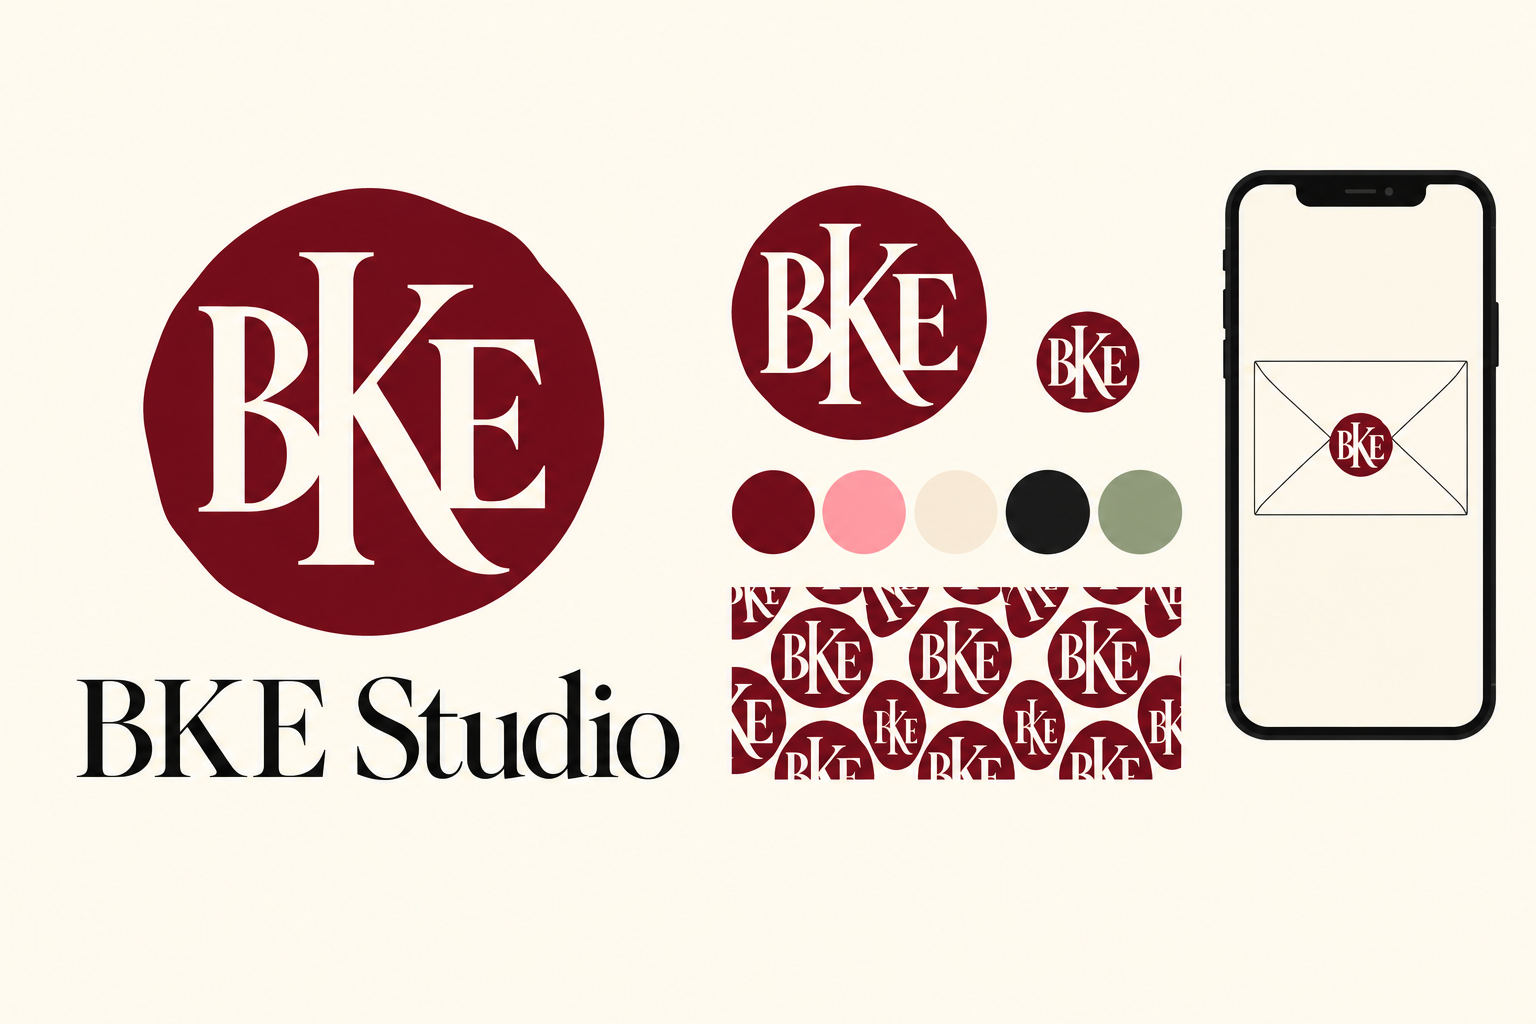
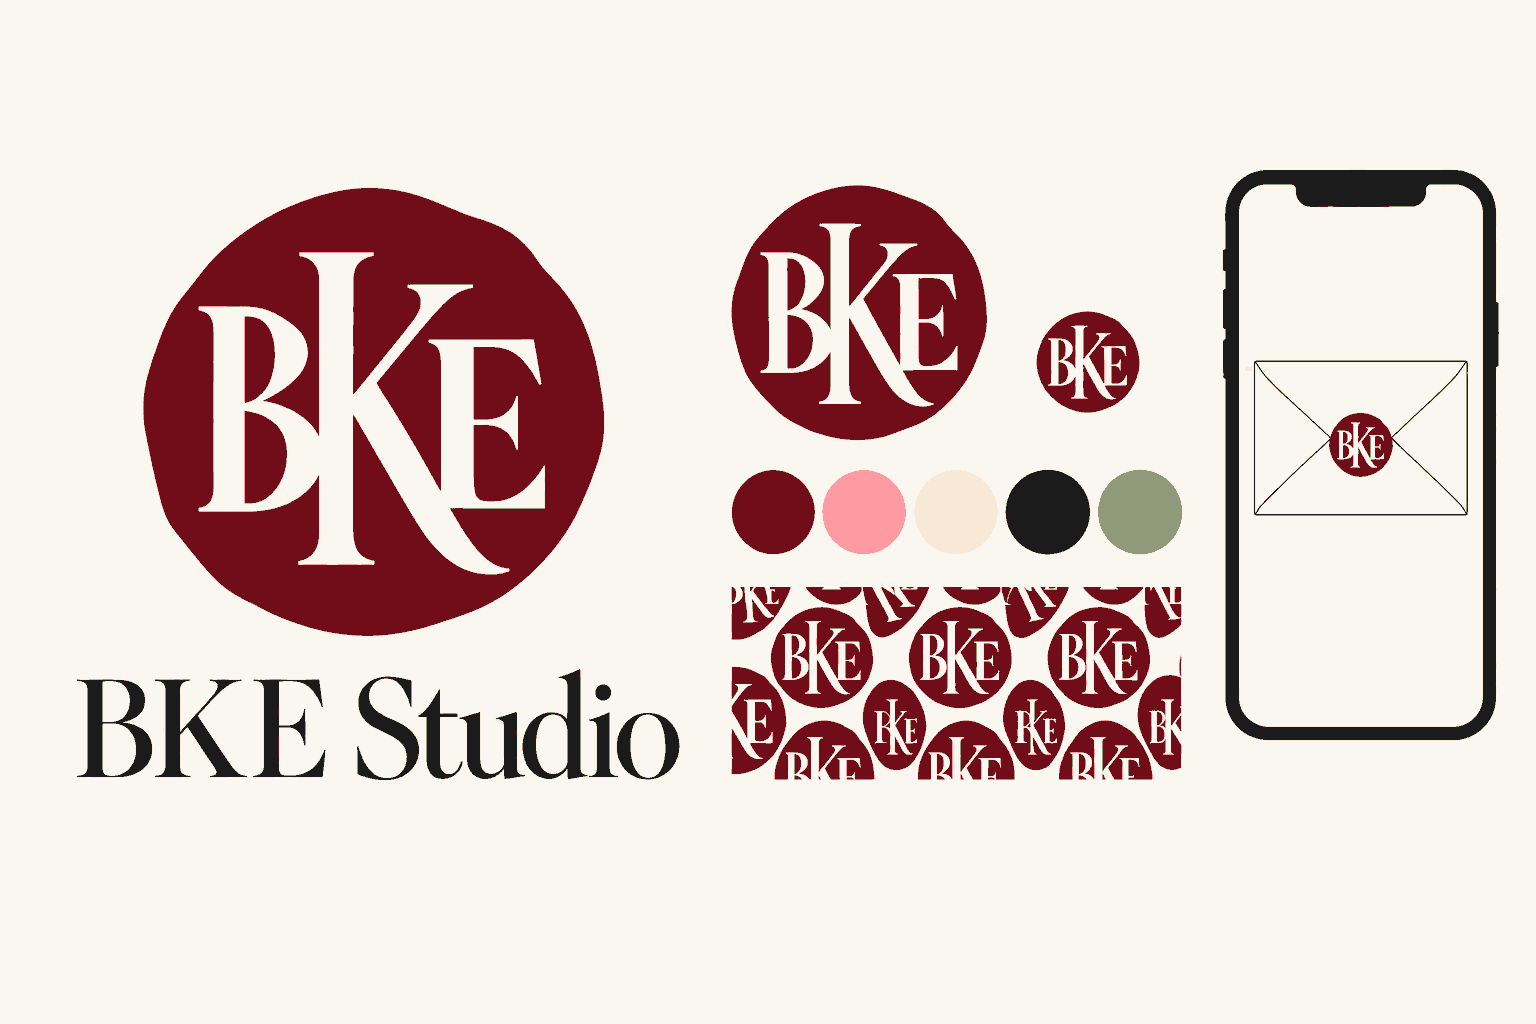
GM01: C The Reveal marka görselleri, inceleme

diff --git a/gorevler/GM01-marka-gorsel.md b/gorevler/GM01-marka-gorsel.md
@@ -2,7 +2,7 @@
 id: GM01
 baslik: BKE Studio marka kimliği — 3 yön panosu + seçilen yönün logo/sembol/mühür/desen/ikon/sahne dosyaları
 rol: gpt-gorsel
-durum: alindi
+durum: inceleme
 alan: gpt-marka
 oncelik: 1
 bagimli: []
@@ -27,13 +27,23 @@ marka kimliği istedi. Tasarımı GPT yapar (K21). Claude sonra vektöre çeviri
 6. Kontrol: her görselin Kontrol satırı. Logo dosyalarında gerçek alfa ve düz renk; `pattern_tile` 2×2 dikişsiz.
 
 ## Bitti sayılması için
-- [ ] 3 pano `brand/assets/gpt/boards/` içinde
-- [ ] 10 B2 dosyası `brand/assets/gpt/final/` içinde, Kaydet satırındaki adlarla
-- [ ] Bütün yazılar harf harf "BKE Studio"; şeffaf istenenler gerçek alfa
-- [ ] Sonuç'ta seçilen yön + gerekçe, yeniden üretilenler, emin olunmayan noktalar
+- [x] 3 pano `brand/assets/gpt/boards/` içinde
+- [x] 10 B2 dosyası `brand/assets/gpt/final/` içinde, Kaydet satırındaki adlarla
+- [x] Bütün yazılar harf harf "BKE Studio"; şeffaf istenenler gerçek alfa
+- [x] Sonuç'ta seçilen yön + gerekçe, yeniden üretilenler, emin olunmayan noktalar
 
 ## Sonuç
+- Seçilen yön: **C — The Reveal** (`brand/assets/gpt/boards/direction_c.png`, seçilen üretim `_v2`). 32 px'e küçültülen ve tek renge indirgenen semboller bellekte karşılaştırıldı: C'nin kalın K gövdesi ve açılan kapak boşluğu en net kaldı; A'nın BKE/katlama kesişimi kalabalık, B'nin serif ligatürü küçük boyda ince kaldı. C'nin koyu patlıcan/kâğıt nötrü romantik paletlere çerçeve oluyor; düz şampanya vurgu ve ağır BKE/hafif Studio karşıtlığı çağdaş ve cesur. Görsel değerlendirmede Buckle'ın western/denim BKE diline benzemiyor; kapsamlı marka/tescil araştırması yapılmadı.
+- B0 brief'i sohbete aynen düz mesaj olarak gönderildi. B1 üç pano tamamlanıp `GM01: B1 yön panoları` commit'iyle main'e gönderildi (rebase sonrası `16d5466`). Panolarda B-K-E ve S-t-u-d-i-o yazımı, beş etiketsiz renk kartı, mühürlü kapalı zarf ve yöne özgü sembol kontrol edildi.
+- B1 yeniden üretimler: A `_v2` (gerçekçi telefon ve yüzey dokusu), A `_v3` (BKE harf sırası daha açık katlama sembolü); B `_v2` (telefon/zarfı düz grafik yapma); C `_v2` (tek satırlı yazı logosu ve düz grafik telefon/zarf). Sade adlar seçilen denemeyi gösteriyor.
+- B2'nin 10 teslim dosyası `brand/assets/gpt/final/` içinde: `monogram.png`, `monogram_small.png`, `wordmark.png`, `logo_horizontal.png`, `logo_stacked.png`, `seal_badge.png`, `pattern_tile.png`, `shop_icon.png`, `brand_scene_wide.png`, `brand_board_final.png`. B2.1–B2.10 sırayla, aynı sohbette, her üretimde seçilen C panosu referans verilerek imagegen ile üretildi. C'nin sembolü açılan K'dir; mühürde BKE ligatürü yerine seçilen bu K sembolü kullanıldı.
+- B2 yeniden üretimler: `monogram_v2.png` (tek renk yüzey kontrolü); `brand_scene_wide_v2.png` (ilk sahnenin telefonu/zarfı 4:1 kırpıma taşmıştı, küçültüldü); `brand_board_final_v2.png` (desen şeridi sakin iki renkli teslim deseniyle eşleştirildi, küçük sembolde altın kaldırıldı). `_v2` dosyaları üretim denemeleridir; teknik kontroller sade adla teslim edilen 10 dosyada yapıldı.
+- Teknik PNG dışa aktarımı ImageMagick ile yapıldı: imagegen'in ürettiği şekil ve harfler korunarak alfa kenar artıkları temizlendi, tuval/boşluklar Kaydet ölçülerine oturtuldu, logo dolguları ve pano renkleri sabit düz renklere indirildi. `monogram`, `monogram_small`, `wordmark` tek opak RGB rengi; yatay/dikey logo en çok iki opak RGB rengi içeriyor. Desen ve profil ikonu iki düz renk; panolar düz grafik, fotoğrafik dosyalar yalnız B2.6 mühür ve B2.9 sahne. Başka önizleme, metrik veya rapor dosyası oluşturulmadı.
+- Kontroller: 3 pano 1536×1024; B2 kare/yatay tuvalleri Kaydet ölçülerinde. Şeffaf istenen altı dosyada gerçek alfa aralığı 0–255, boş köşeler şeffaf. `wordmark`, yatay/dikey logo ve son panoda B-K-E, boşluk, S-t-u-d-i-o harf harf doğru; başka kelime/etiket/renk kodu yok. Semboller tek başına, kenarları kesilmeden; 16/32 px favicon bellekte görsel olarak kontrol edildi. Mühür önden, gerçekçi balmumu ve doğru K baskısı, zemine düşen gölge/hâle yok.
+- `pattern_tile` bellekte 2×2 tekrarlandı: görünür dikiş yok, sol/sağ ve üst/alt kenar pikselleri birebir aynı. `shop_icon` sembolünün bütün pikselleri merkezdeki %70 çaplı dairenin içinde. Sahnenin merkez 4:1 kırpımında telefon, zarf ve mühürler tam; sağ %45 sakin kâğıt yüzeyi, yazı/cihaz marka logosu yok. Son panodaki beş düz, etiketsiz kartın sırası ana renk → vurgu → kâğıt nötrü → metin siyahı → lavanta. Metin/kâğıt nötrü kontrastı 13.03:1; ölçüm bellekte yapıldı.
 
 ## Günlük
 - 2026-10-14 açıldı (entegratör): K26 marka kimliği
 - 2026-10-14 alindi: gpt-marka
+- 2026-10-14 B1 panoları main'e gönderildi; C — The Reveal seçildi, B2 üretimine geçildi.
+- 2026-10-14 bitti, incelemeye gönderildi: gpt-marka; 3 yön panosu ve C yönünün 10 B2 dosyası tamamlandı.
